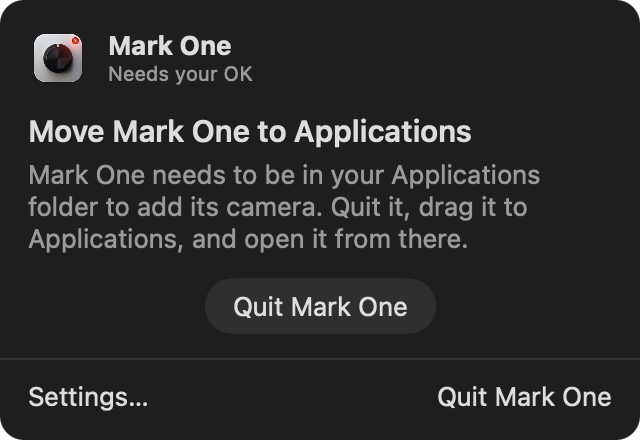
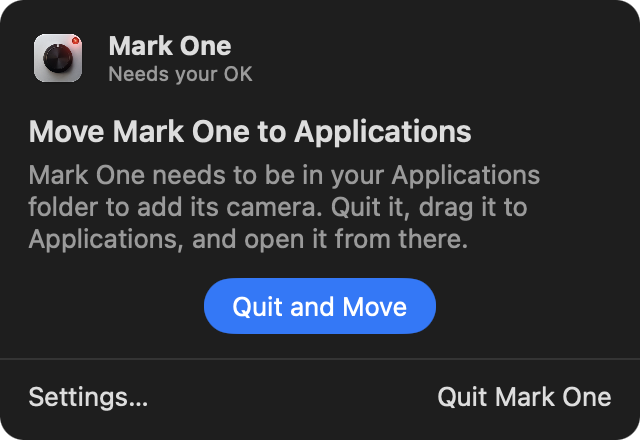
Mark One: The move-to-Applications button says Quit and Move

Changed region(s): [[0.3125, 0.6205, 0.6875, 0.7682]]

diff --git a/mac/MarkOne/App/Views/MenuView.swift b/mac/MarkOne/App/Views/MenuView.swift
@@ -98,7 +98,7 @@ struct MenuView: View {
                          ? installer.status
                          : "macOS asks before an app adds a camera. In System Settings › General › Login Items & Extensions, click ⓘ beside Mark One and turn on Media Extension."))
             if installer.failed {
-                Button(installer.notInApplications ? "Quit Mark One" : installer.needsRestart ? "Check Again" : "Try Again") {
+                Button(installer.notInApplications ? "Quit and Move" : installer.needsRestart ? "Check Again" : "Try Again") {
                     if installer.notInApplications { NSApp.terminate(nil) } else { installer.activate() }
                 }
                     .buttonStyle(.borderedProminent)

diff --git a/mac/MarkOne/App/Views/WelcomeView.swift b/mac/MarkOne/App/Views/WelcomeView.swift
@@ -277,7 +277,7 @@ struct WelcomeView: View {
                             Text(installer.status).fixedSize(horizontal: false, vertical: true)
                             Spacer()
                             if installer.notInApplications {
-                                Button("Quit Mark One") { NSApp.terminate(nil) }
+                                Button("Quit and Move") { NSApp.terminate(nil) }
                             } else {
                                 Button(installer.needsRestart ? "Check Again" : "Try Again") { installer.activate() }
                             }
